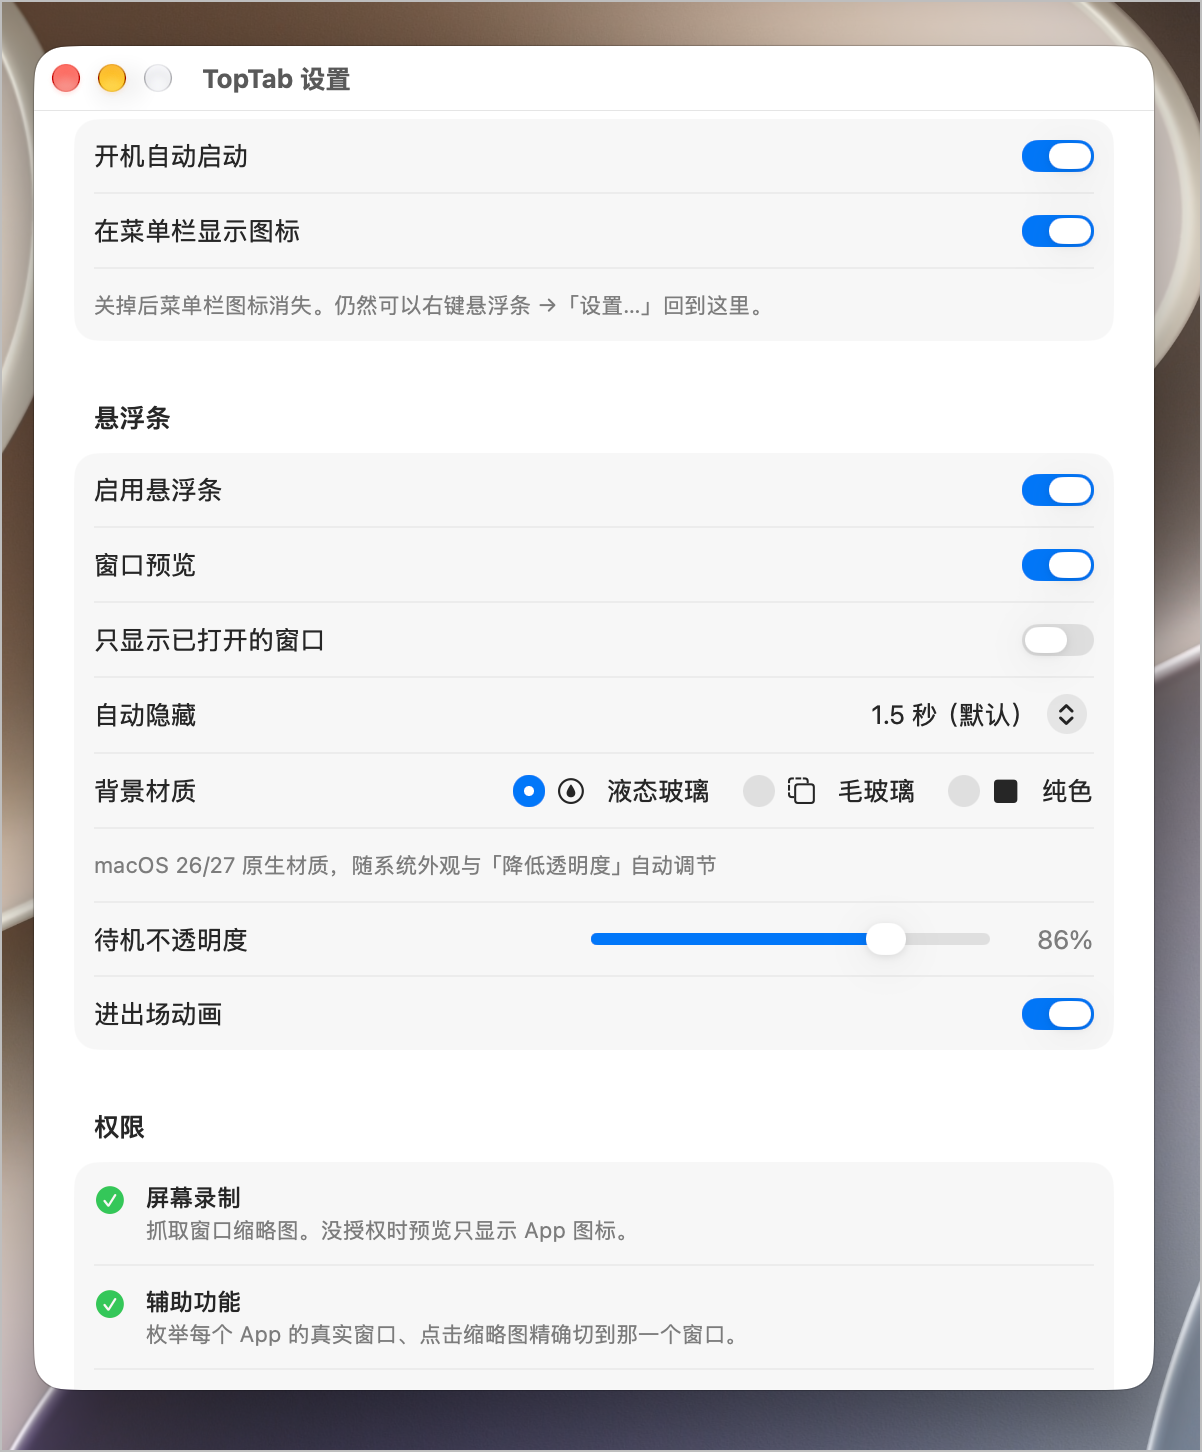
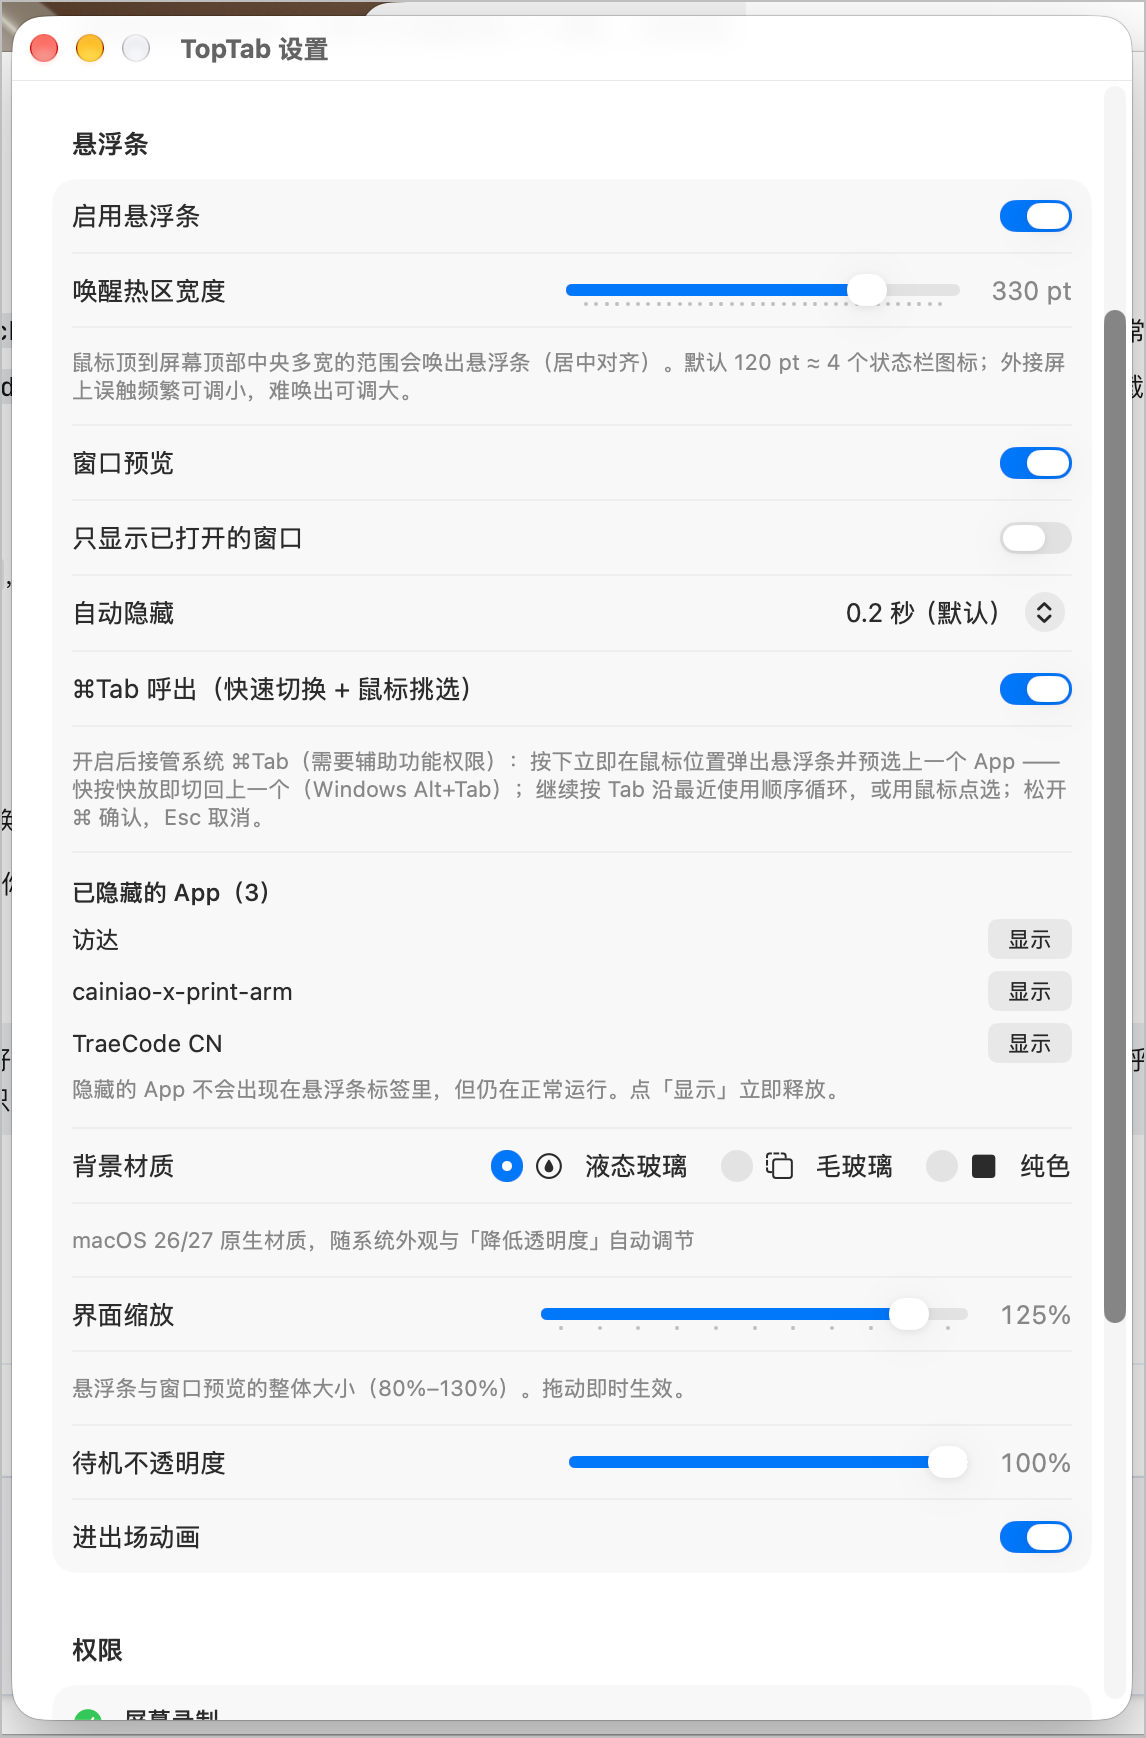
docs：更新截图并补充 v1.2.0 新增功能说明
- docs/screenshot-bar.png：换用新截图
- docs/screenshot-settings.png：换成含「界面缩放 / ⌘Tab 呼出 / 已隐藏的 App」的新设置面板
- docs/screenshot-tab-menu.png：新增标签右键菜单截图（隐藏此 App / 退出 App）
- README：新增「新增」小节（界面缩放适配不同分辨率与外接显示器、右键隐藏/退出、⌘Tab 呼出快速切换），效果区补上右键菜单截图

diff --git a/README.md b/README.md
@@ -2,6 +2,14 @@
 
 屏幕顶部的悬浮 App 切换条。默认藏起来不挡视线，鼠标顶到屏幕顶部唤出；液态玻璃背景、自动分类运行中的 App、图标 + 名称、单击切换并置前、悬停弹出窗口缩略图。菜单栏有图标，带完整设置窗口。
 
+## 新增
+
+| 功能 | 说明 |
+|---|---|
+| **界面缩放** | 设置 → 悬浮条 → 界面缩放，80%–130%，拖动即时生效。悬浮条与窗口预览等比放大，命中区域同步缩放，适配不同分辨率的屏幕和外接显示器 |
+| **标签右键 隐藏 / 退出** | 标签上右键 →「隐藏此 App」/「退出 App」。隐藏的 App 不再占标签位、也不再出现在悬停预览里，但仍在后台正常运行 —— 只留自己每天高频切换的那几个，列表短了切换更快；想放回来去设置 →「已隐藏的 App」点「显示」 |
+| **⌘Tab 呼出** | 按下 ⌘Tab 在**鼠标位置**弹出悬浮条并预选上一个 App：快按快放 = 立刻切回上一个（复刻 Windows Alt+Tab）；按住不放继续按 Tab 沿最近使用顺序循环，也可以直接用鼠标点选；松开 ⌘ 确认，Esc 取消 |
+
 ## 交互
 
 | 操作 | 结果 |
@@ -26,11 +34,15 @@
 
 <img src="docs/screenshot-bar.png" width="830" alt="悬浮条"/>
 
+标签上**右键** →「隐藏此 App」/「退出 App」（隐藏后标签消失但 App 仍在跑，鼠标顶到顶部也不会再列出它）：
+
+<img src="docs/screenshot-tab-menu.png" width="830" alt="标签右键菜单"/>
+
 悬停多窗口 App 的标签，弹出窗口缩略图预览 —— 悬停浮起、按下反馈、点 × 直接关窗、点卡片精确切到那个窗口：
 
 <img src="docs/screenshot-preview.png" width="830" alt="窗口预览"/>
 
-设置窗口（开机自启 / 菜单栏图标 / 预览开关 / 自动隐藏时长 / 液态玻璃材质与不透明度 / 权限状态）：
+设置窗口（开机自启 / 菜单栏图标 / 唤醒热区宽度 / ⌘Tab 呼出 / 已隐藏的 App / 材质与不透明度 / 界面缩放 / 权限状态）：
 
 <img src="docs/screenshot-settings.png" width="420" align="right" alt="设置窗口"/>
 
